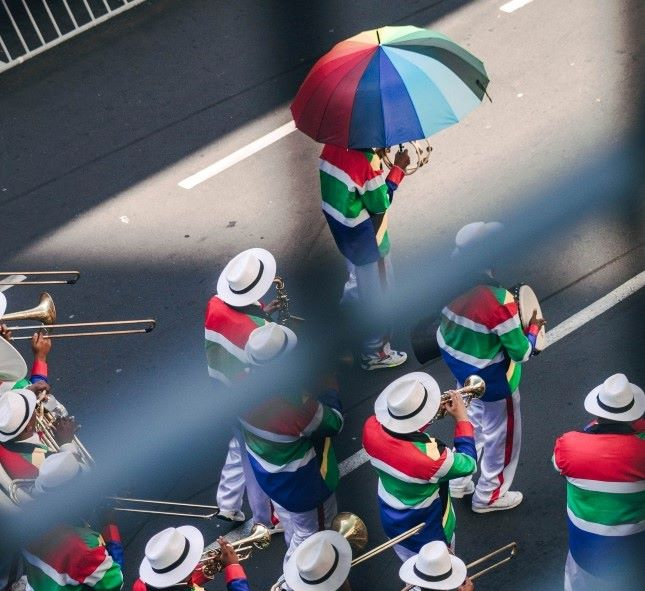
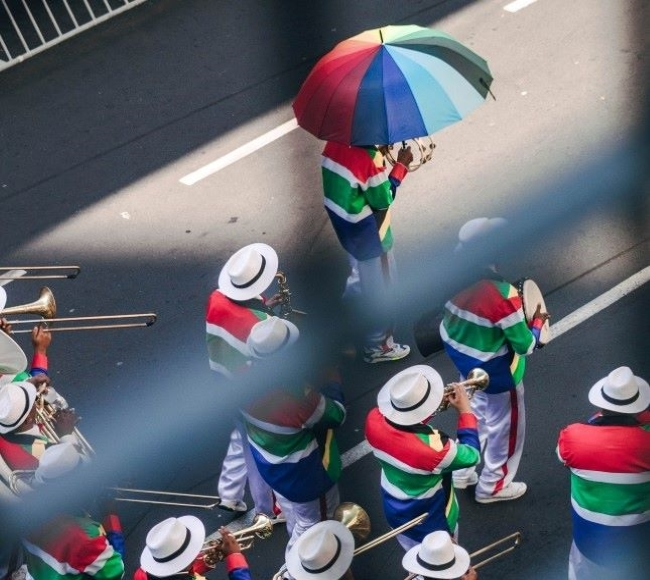
image optimisations

diff --git a/chamber/discover.html b/chamber/discover.html
@@ -37,8 +37,8 @@
             </ul>
         </nav>
         <div class="social-ico">
-            <img src="images/linkedin@32.png" alt="linkedIn">
-            <img src="images/twitter@32.png" alt="twitter">
+            <img src="images/linkedin32.webp" alt="linkedIn">
+            <img src="images/twitter32.webp" alt="twitter">
         </div>
 
         <div class="timebar"></div>
@@ -50,67 +50,67 @@
         <!-- main content starts here -->
         <div class="box">
             <picture>
-                <img src="images/lazyload300.png" data-src="images/discover/andrew.jpg" alt="andrew" style="width: 100%">
+                <img src="images/lazyload300.webp" data-src="images/discover/andrew.webp" alt="andrew" style="width: 100%">
                 <figcaption>Fig 1: Andrew Court</figcaption>
             </picture>
             <picture>
-                <img src="images/lazyload300.png" data-src="images/discover/bram.jpg" alt="bram" style="width: 100%">
+                <img src="images/lazyload300.webp" data-src="images/discover/bram.webp" alt="bram" style="width: 100%">
                 <figcaption>Fig 5: Bram street</figcaption>
             </picture>
             <picture>
-                <img src="images/lazyload300.png" data-src="images/discover/hansjorg.jpg" alt="hansjorg" style="width: 100%">
+                <img src="images/lazyload300.webp" data-src="images/discover/hansjorg.webp" alt="hansjorg" style="width: 100%">
                 <figcaption>Fig 9: Hansjorg way</figcaption>
             </picture>
             <picture>
-                <img src="images/lazyload300.png" data-src="images/discover/thecity.jpg" alt="hansjorg" style="width: 100%">
+                <img src="images/lazyload300.webp" data-src="images/discover/thecity.webp" alt="hansjorg" style="width: 100%">
                 <figcaption>Fig x2: The City</figcaption>
             </picture>  
         </div>
         <div class="box" >
             <div>
-                <img src="images/lazyload300.png" data-src="images/discover/hansjorg2.jpg" alt="hansjorg2" style="width: 100%">
+                <img src="images/lazyload300.webp" data-src="images/discover/hansjorg2.webp" alt="hansjorg2" style="width: 100%">
                 <figcaption>Fig 2: Hans Avenue</figcaption>
             </div>
             <picture>
-                <img src="images/lazyload300.png" data-src="images/discover/jeanine.jpg" alt="jeanine" style="width: 100%">
+                <img src="images/lazyload300.webp" data-src="images/discover/jeanine.webp" alt="jeanine" style="width: 100%">
                 <figcaption>Fig 6: Jwanine Street</figcaption>
             </picture>
             <picture>
-                <img src="images/lazyload300.png" data-src="images/discover/jorge.jpg" alt="jorge" style="width: 100%">
+                <img src="images/lazyload300.webp" data-src="images/discover/jorge.webp" alt="jorge" style="width: 100%">
                 <figcaption>Fig 10: Jorge Corner</figcaption>
             </picture>
             <picture>
-                <img src="images/lazyload300.png" data-src="images/discover/marcel.jpg" alt="hansjorg" style="width: 100%">
+                <img src="images/lazyload300.webp" data-src="images/discover/marcel.webp" alt="hansjorg" style="width: 100%">
                 <figcaption>Fig x1: Jorge Way</figcaption>
             </picture>     
         </div>          
         </div>
         <div class="box">
             <picture>
-                <img src="images/lazyload300.png" data-src="images/discover/alberto.jpg" alt="loveit" style="width: 100%">
+                <img src="images/lazyload300.webp" data-src="images/discover/alberto.webp" alt="loveit" style="width: 100%">
                 <figcaption>Fig 3: Love this town</figcaption>
             </picture>
             <picture>
-                <img src="images/lazyload300.png" data-src="images/discover/shelley.jpg" alt="shelley" style="width: 100%">
+                <img src="images/lazyload300.webp" data-src="images/discover/shelley.webp" alt="shelley" style="width: 100%">
                 <figcaption>Fig 7: shelley Broadway</figcaption>
             </picture>
             <picture>
-                <img src="images/lazyload300.png" data-src="images/discover/oliver.jpg" alt="shelley2" style="width: 100%">
+                <img src="images/lazyload300.webp" data-src="images/discover/oliver.webp" alt="shelley2" style="width: 100%">
                 <figcaption>Fig 11: shelley Town</figcaption>
             </picture>     
         </div>
         </div>
         <div class="box">
             <picture>
-                <img src="images/lazyload300.png" data-src="images/discover/tani.jpg" alt="tani" style="width: 100%">
+                <img src="images/lazyload300.webp" data-src="images/discover/tani.webp" alt="tani" style="width: 100%">
                 <figcaption>Fig 4: I won the Place</figcaption>
             </picture>
             <picture>
-                <img src="images/lazyload300.png" data-src="images/discover/tim.jpg" alt="tim" style="width: 100%">
+                <img src="images/lazyload300.webp" data-src="images/discover/tim.webp" alt="tim" style="width: 100%">
                 <figcaption>Fig 8: Tim's Den</figcaption>
             </picture>
             <picture>
-                <img src="images/lazyload300.png" data-src="images/discover/timon.jpg" alt="timon" style="width: 100%">
+                <img src="images/lazyload300.webp" data-src="images/discover/timon.webp" alt="timon" style="width: 100%">
                 <figcaption>Fig 12: Timon Mount</figcaption>
             </picture>     
         </div>

diff --git a/chamber/index.html b/chamber/index.html
@@ -37,8 +37,8 @@
             </ul>
         </nav>
         <div class="social-ico">
-            <img src="images/linkedin@32.png" alt="linkedIn">
-            <img src="images/twitter@32.png" alt="twitter">
+            <img src="images/linkedin32.webp" alt="linkedIn">
+            <img src="images/twitter32.webp" alt="twitter">
         </div>
 
         <div class="timebar"></div>
@@ -57,10 +57,10 @@
         <div class="siteHero">
             <!-- Hero main content -->
             <picture>
-                <source media="(max-width: 32.5em)" srcset="images/wdd230-org200.jpg">
-                <source media="(max-width: 900px)" srcset="images/wdd230-org650s.jpg">
-                <source media="(max-width: 1100px)" srcset="images/wdd230-org650.jpg">
-                <img src="images/wdd230-org650.jpg" alt="manor chamber site Hero">
+                <source media="(max-width: 32.5em)" srcset="images/manor_banner200x150.webp">
+                <source media="(max-width: 900px)" srcset="images/manor_banner650x300.webp">
+                <source media="(max-width: 1100px)" srcset="images/manor_banner650x580.webp">
+                <img src="images/manor_banner650x580.jpg" alt="manor chamber site Hero">
             </picture>
             <h2>Welcome to Lyttelton Manor</h2>
             <p>Join Our Chamber.</p>

diff --git a/chamber/js/spotlight.js b/chamber/js/spotlight.js
@@ -21,7 +21,7 @@ fetch(spotURL)
         // console.log(goldMembers);
         // add to page
         setInterval(function() {
-            advertLoad()
+            spotlightLoad()
         }, 2000);
         // window.addEventListener("load", goldLoad);
         // window.addEventListener("reload", goldLoad)
@@ -31,7 +31,7 @@ fetch(spotURL)
         // console.log(silverMembers)
         });
 
-function advertLoad() {
+function spotlightLoad() {
     // Load random Gold Member to spotlight 1
     document.querySelector(".spot1H2").textContent = goldMembers[i].companyname;
     document.querySelector(".spot1p").textContent = goldMembers[i].website;
@@ -49,7 +49,7 @@ function advertLoad() {
     // load spotlight3 only when it is on screen.
     window.addEventListener("resize", function () {
         if (document.documentElement.clientWidth >= 1024) {
-            // load random Silver member to spotlight 3
+            // load random Silver member to spotlight 3 for screen size only
             document.querySelector(".spot3H2").textContent = goldMembers[k].companyname;
             document.querySelector(".spot3p").innerHTML = `Call us today: +${goldMembers[k].phone}`;
             document.querySelector(".spot3img").setAttribute("src", goldMembers[k].logourl);

diff --git a/chamber/contact.html b/chamber/contact.html
@@ -57,7 +57,7 @@
                     <label for="fname" class="contact">Name*:<input type="text" name="fname" placeholder="John" required></label>
                     <label for="lname" class="contact">Last name*:<input type="text" name="lname" placeholder="Doe" required></label>
                     <label for="company" class="contact">Company name*:<input type="text" name="company" placeholder="XYZ Company Ltd" required></label>
-                    <label for="phone" class="contact">Phone:<input type="number" name="phone" id="phone" placeholder="27-12-345-6487"></label>
+                    <label for="phone" class="contact">Phone:<input type="tel" name="phone" id="phone" placeholder="27-12-345-6487"></label>
                     <label for="email" class="contact">E-mail*:<input type="email" name="email" id="email" placeholder="xyz@email.com" required></label>
                     <label for="message" class="contact">Your message*:<textarea name="message" id="message" cols="30" rows="10" placeholder="drop a line" required></textarea></label>
                     <p>* Required fields</p>

diff --git a/chamber/directory.html b/chamber/directory.html
@@ -38,8 +38,8 @@
             </ul>
         </nav>
         <div class="social-ico">
-            <img src="images/linkedin@32.png" alt="linkedIn">
-            <img src="images/twitter@32.png" alt="twitter">
+            <img src="images/linkedin32.webp" alt="linkedIn">
+            <img src="images/twitter32.webp" alt="twitter">
         </div>
 
         <div class="timebar"></div>

diff --git a/chamber/join.html b/chamber/join.html
@@ -38,8 +38,8 @@
             </ul>
         </nav>
         <div class="social-ico">
-            <img src="images/linkedin@32.png" alt="linkedIn">
-            <img src="images/twitter@32.png" alt="twitter">
+            <img src="images/linkedin32.webp" alt="linkedIn">
+            <img src="images/twitter32.webp" alt="twitter">
         </div>
 
         <div class="timebar"></div>

diff --git a/chamber/thankyou.html b/chamber/thankyou.html
@@ -37,8 +37,8 @@
             </ul>
         </nav>
         <div class="social-ico">
-            <img src="images/linkedin@32.png" alt="linkedIn">
-            <img src="images/twitter@32.png" alt="twitter">
+            <img src="images/linkedin32.webp" alt="linkedIn">
+            <img src="images/twitter32.webp" alt="twitter">
         </div>
 
         <div class="timebar"></div>

diff --git a/chamber/js/javascript.js b/chamber/js/javascript.js
@@ -6,7 +6,7 @@ let imagesToLoad = document.querySelectorAll("img[data-src]");
 
 const imageOptions = {
     threshold: 0,
-    rootMargin: '0px 0px -400px 0px'
+    rootMargin: '0px 0px -200px 0px'
 };
 
 const loadImages = (image) => {
